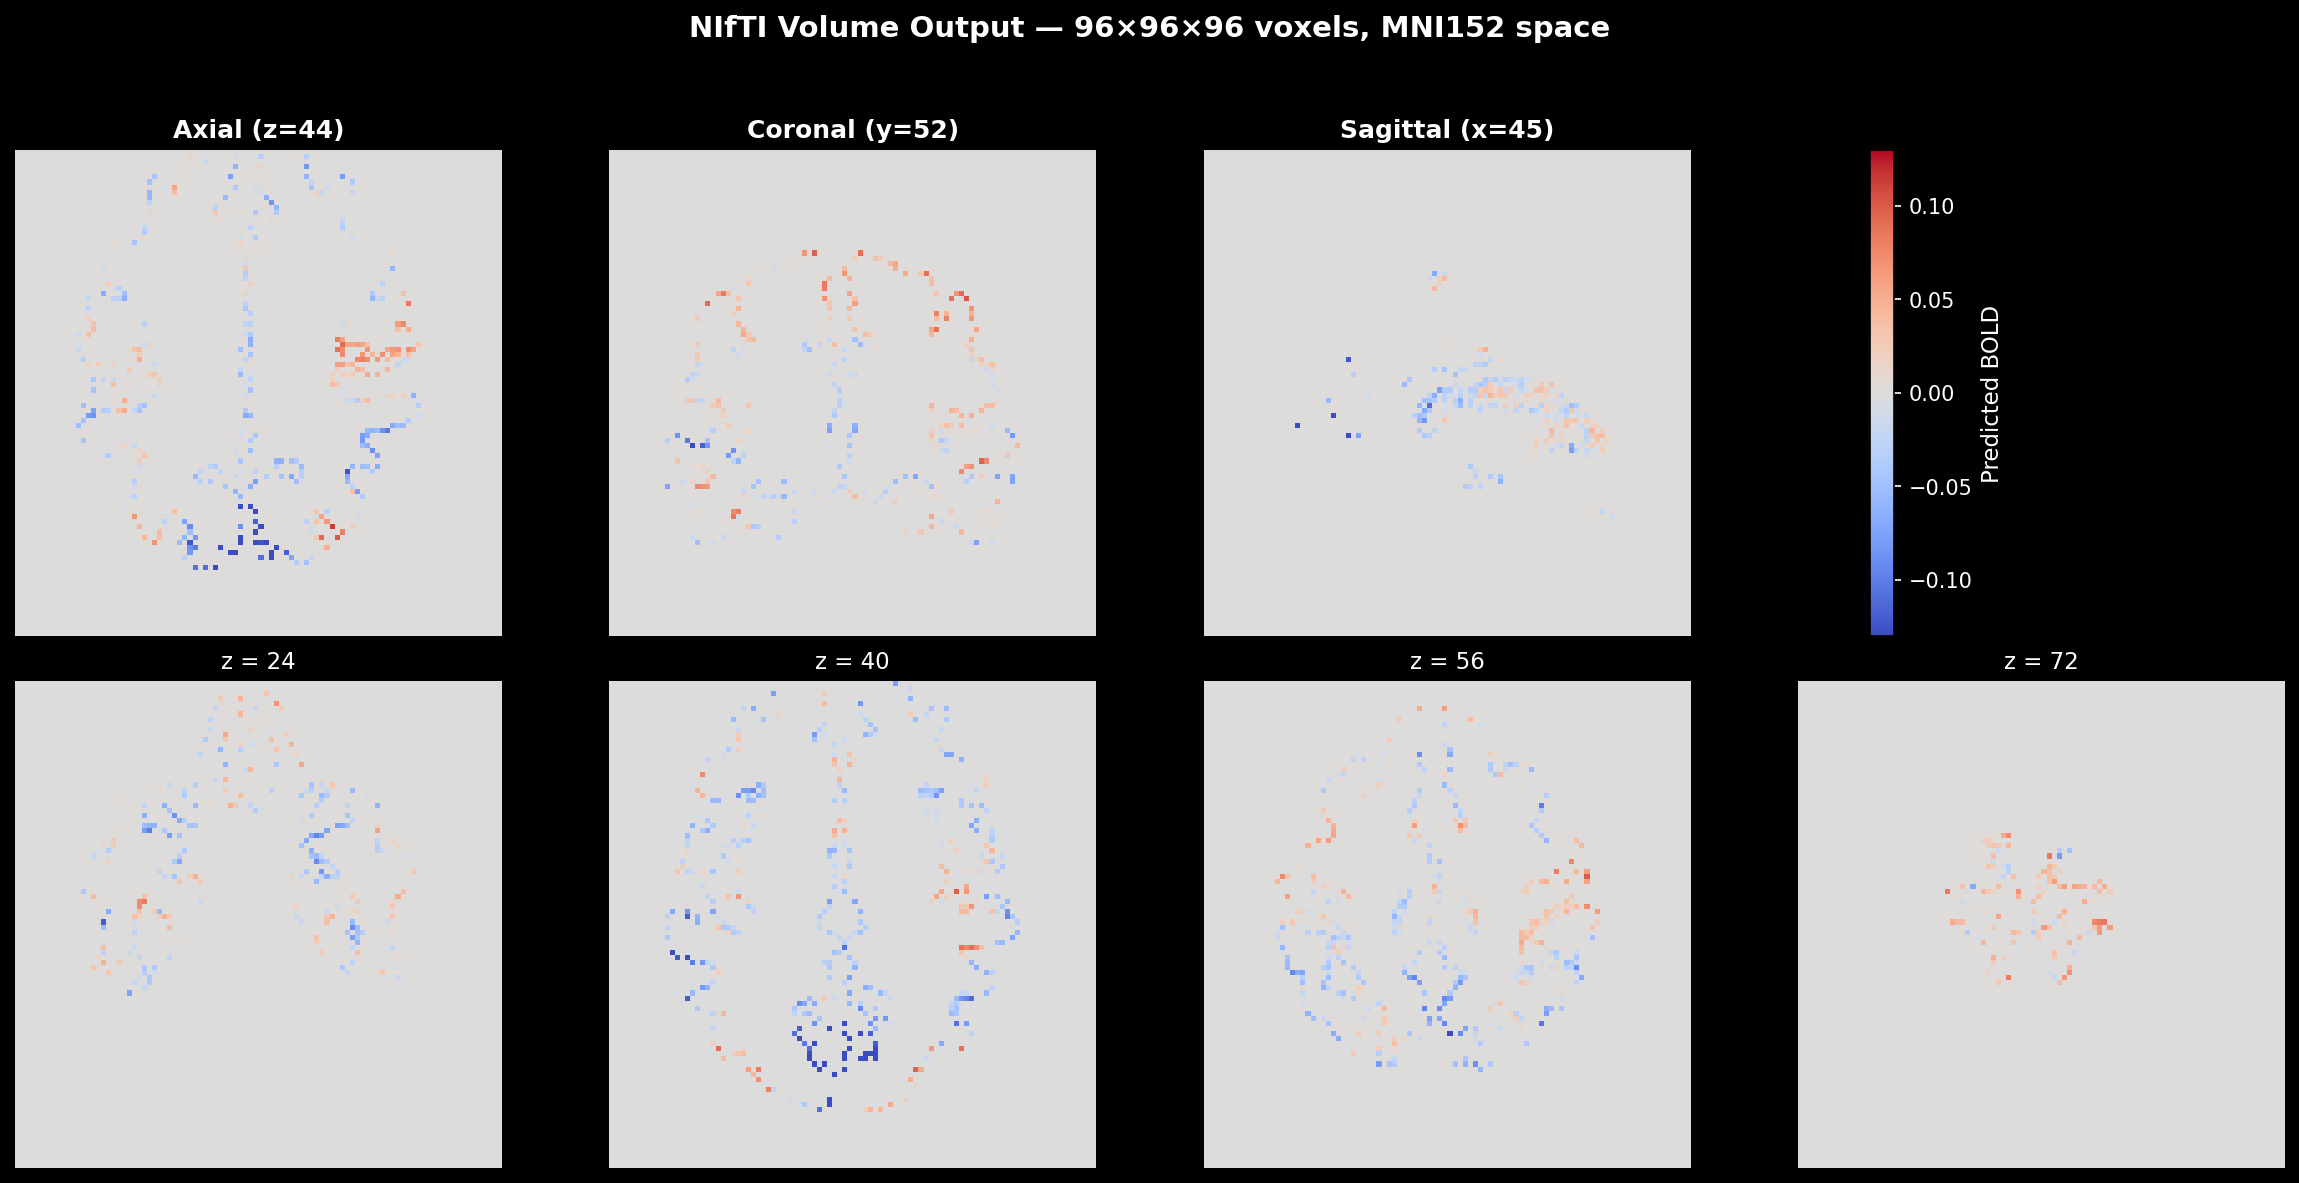
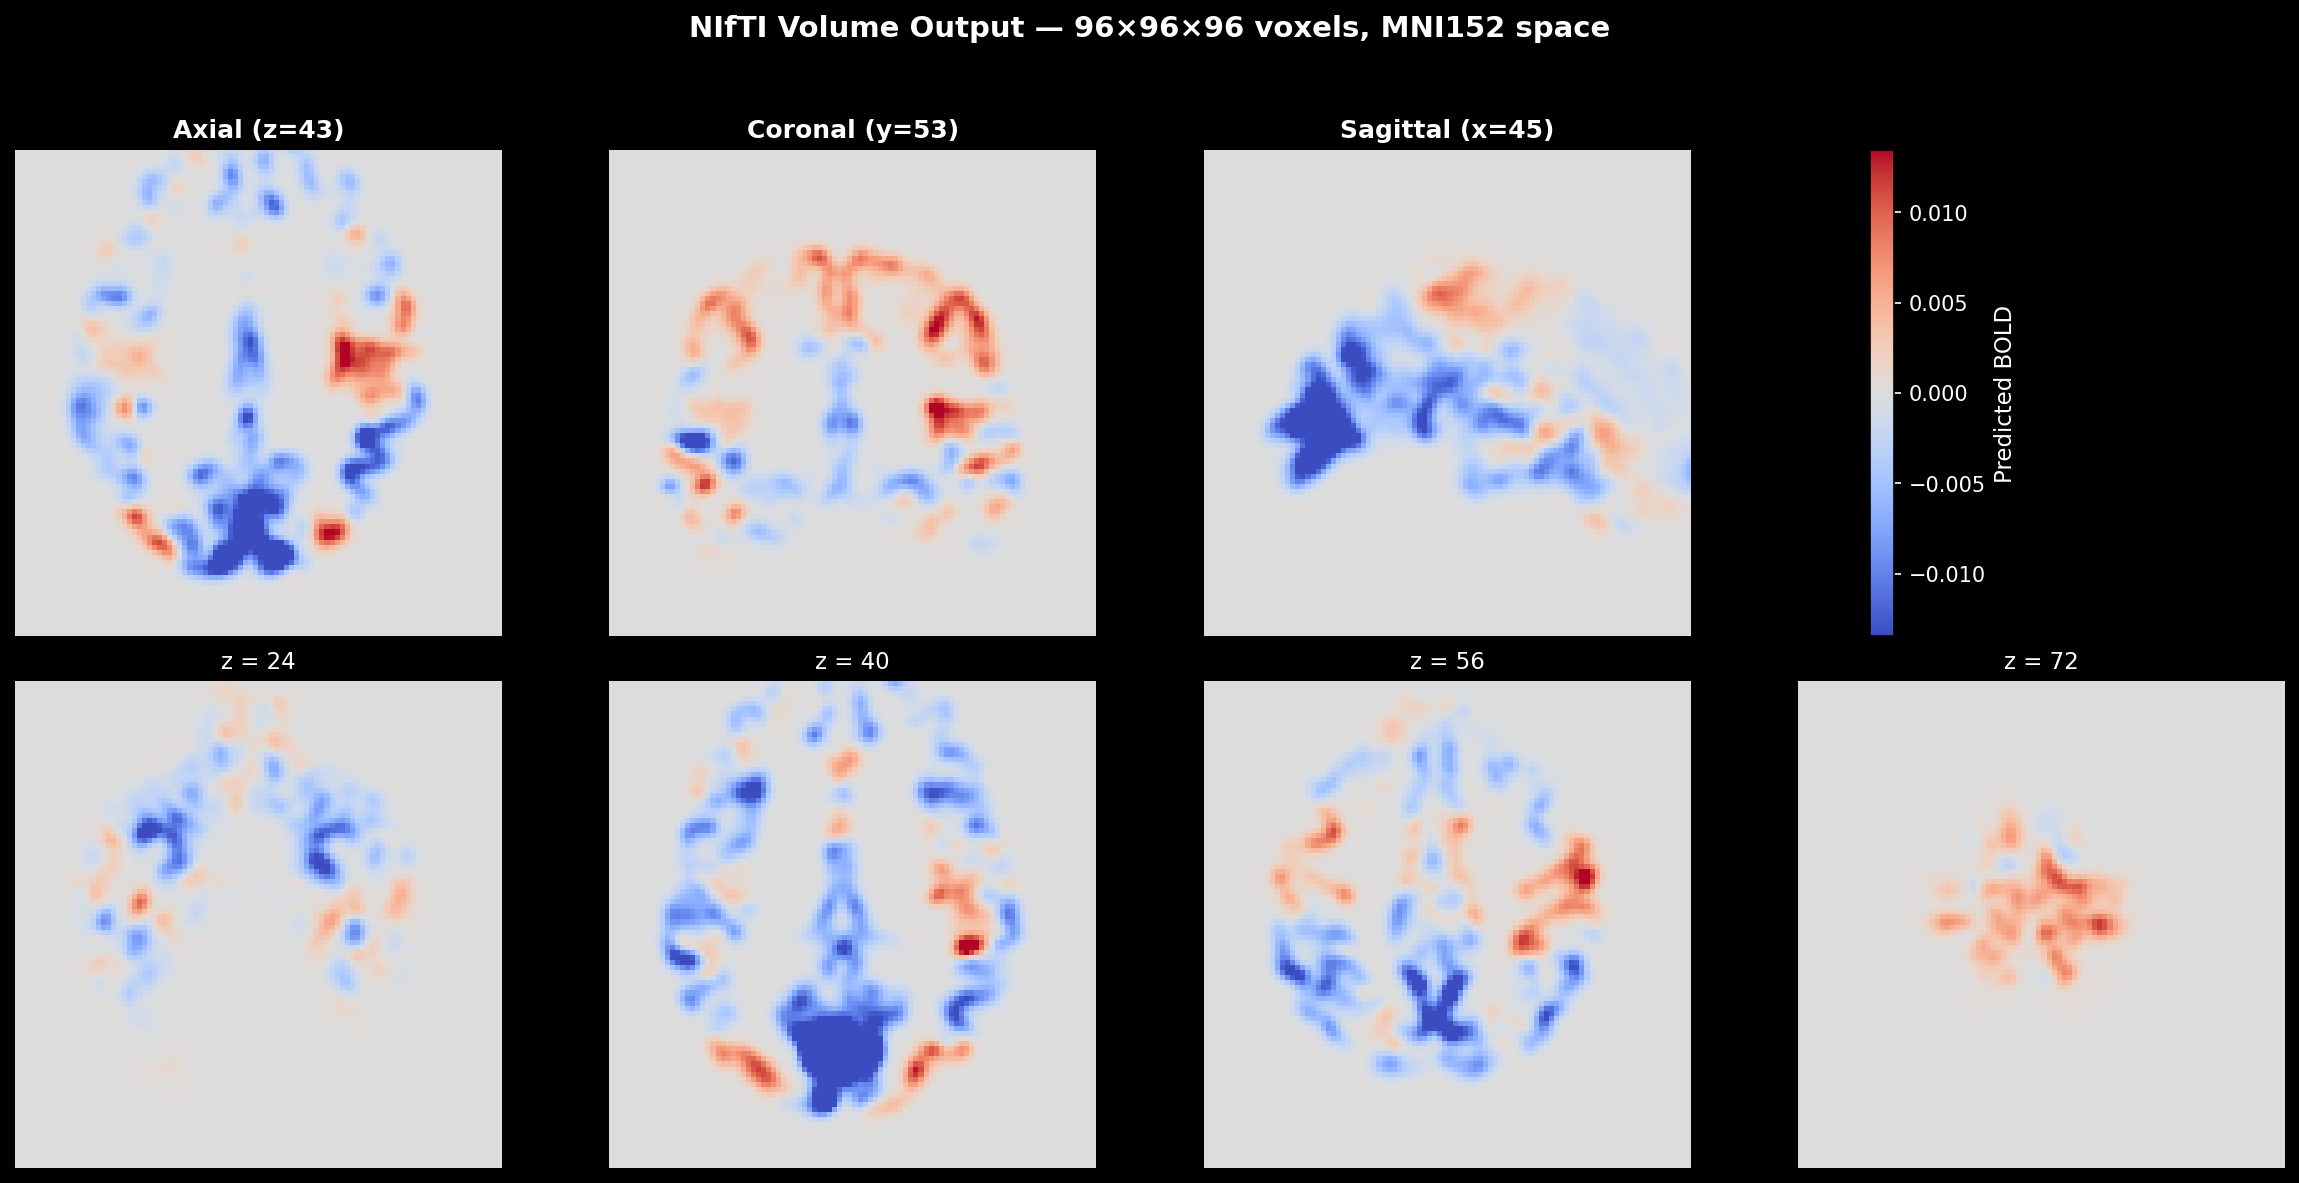
NIfTI: add Gaussian smoothing to fill cortical ribbon
surface_to_volume() now applies 3D separable Gaussian smoothing (default
FWHM=6mm) after scattering surface vertices to voxels. This fills the
cortical ribbon properly instead of producing sparse point projections.

- Added gaussian_smooth_3d_masked(): 3-pass separable convolution with
  distance mask (only fills voxels within 3σ of scattered vertices)
- Added smooth_fwhm_mm field to NiftiConfig (default: 6.0mm)
- Added --nifti-smooth CLI flag
- Regenerated NIfTI slice previews showing filled brain volume
- Added test_surface_to_volume_smoothed test

diff --git a/crates/tribev2/src/nifti.rs b/crates/tribev2/src/nifti.rs
@@ -29,6 +29,9 @@ pub struct NiftiConfig {
     pub origin_mm: (f32, f32, f32),
     /// Whether to gzip compress the output (.nii.gz vs .nii).
     pub compress: bool,
+    /// Gaussian smoothing FWHM in mm (0 = no smoothing). Default: 6.0.
+    /// Applied after surface-to-volume scatter to fill the cortical ribbon.
+    pub smooth_fwhm_mm: f32,
 }
 
 impl Default for NiftiConfig {
@@ -41,6 +44,7 @@ impl Default for NiftiConfig {
             // We offset so that MNI (0,0,0) is near the center.
             origin_mm: (90.0, 126.0, 72.0),
             compress: true,
+            smooth_fwhm_mm: 6.0,
         }
     }
 }
@@ -169,7 +173,13 @@ pub fn mni_to_voxel(
 /// `config`: volume configuration.
 ///
 /// Returns a flat f32 volume of size `nx * ny * nz` in row-major order.
-/// Multiple vertices mapping to the same voxel are averaged.
+///
+/// The projection works in two stages:
+/// 1. **Scatter**: each vertex is mapped to its nearest voxel (multiple vertices
+///    in the same voxel are averaged).
+/// 2. **Smooth + fill**: a 3D Gaussian kernel (FWHM from config) is applied to
+///    spread each scattered point into a filled cortical ribbon. A distance mask
+///    ensures only voxels within ~2× the smoothing radius of a vertex are filled.
 pub fn surface_to_volume(
     vertex_values: &[f32],
     vertex_coords: &[f32],
@@ -201,7 +211,146 @@ pub fn surface_to_volume(
         }
     }
 
+    // Apply Gaussian smoothing to fill the cortical ribbon
+    if config.smooth_fwhm_mm > 0.0 {
+        let sigma_voxels = config.smooth_fwhm_mm / (2.355 * config.voxel_size);
+        volume = gaussian_smooth_3d_masked(&volume, &counts, nx, ny, nz, sigma_voxels);
+    }
+
     volume
+}
+
+/// 3D Gaussian smoothing with cortical mask.
+///
+/// Only voxels near the original scattered vertices get filled.
+/// Uses separable convolution (3 × 1D passes) for efficiency.
+fn gaussian_smooth_3d_masked(
+    volume: &[f32],
+    scatter_counts: &[u32],
+    nx: usize, ny: usize, nz: usize,
+    sigma: f32,
+) -> Vec<f32> {
+    // Build a distance mask: for each voxel, the squared distance (in voxels)
+    // to the nearest scattered vertex. Only fill within radius = 3*sigma.
+    let radius = (3.0 * sigma).ceil() as isize;
+    let n_voxels = nx * ny * nz;
+
+    // Build mask of voxels within radius of any scattered vertex
+    let mut mask = vec![false; n_voxels];
+    for k in 0..nz {
+        for j in 0..ny {
+            for i in 0..nx {
+                let idx = i + j * nx + k * nx * ny;
+                if scatter_counts[idx] > 0 {
+                    // Mark neighborhood
+                    for dk in -radius..=radius {
+                        let kk = k as isize + dk;
+                        if kk < 0 || kk >= nz as isize { continue; }
+                        for dj in -radius..=radius {
+                            let jj = j as isize + dj;
+                            if jj < 0 || jj >= ny as isize { continue; }
+                            for di in -radius..=radius {
+                                let ii = i as isize + di;
+                                if ii < 0 || ii >= nx as isize { continue; }
+                                let dist_sq = (di * di + dj * dj + dk * dk) as f32;
+                                if dist_sq <= (radius * radius) as f32 {
+                                    let midx = ii as usize + jj as usize * nx + kk as usize * nx * ny;
+                                    mask[midx] = true;
+                                }
+                            }
+                        }
+                    }
+                }
+            }
+        }
+    }
+
+    // Build 1D Gaussian kernel
+    let ksize = (2 * radius + 1) as usize;
+    let mut kernel = vec![0.0f32; ksize];
+    let mut ksum = 0.0f32;
+    for i in 0..ksize {
+        let x = i as f32 - radius as f32;
+        let v = (-0.5 * (x / sigma) * (x / sigma)).exp();
+        kernel[i] = v;
+        ksum += v;
+    }
+    for v in &mut kernel { *v /= ksum; }
+
+    // Separable 3-pass Gaussian: X, Y, Z
+    let mut buf = volume.to_vec();
+    let mut tmp = vec![0.0f32; n_voxels];
+
+    // Pass 1: convolve along X
+    for k in 0..nz {
+        for j in 0..ny {
+            for i in 0..nx {
+                let mut sum = 0.0f32;
+                let mut wsum = 0.0f32;
+                for ki in 0..ksize {
+                    let ii = i as isize + ki as isize - radius;
+                    if ii >= 0 && ii < nx as isize {
+                        let src = ii as usize + j * nx + k * nx * ny;
+                        let w = kernel[ki];
+                        sum += buf[src] * w;
+                        wsum += w;
+                    }
+                }
+                tmp[i + j * nx + k * nx * ny] = if wsum > 0.0 { sum / wsum } else { 0.0 };
+            }
+        }
+    }
+    std::mem::swap(&mut buf, &mut tmp);
+
+    // Pass 2: convolve along Y
+    for k in 0..nz {
+        for j in 0..ny {
+            for i in 0..nx {
+                let mut sum = 0.0f32;
+                let mut wsum = 0.0f32;
+                for ki in 0..ksize {
+                    let jj = j as isize + ki as isize - radius;
+                    if jj >= 0 && jj < ny as isize {
+                        let src = i + jj as usize * nx + k * nx * ny;
+                        let w = kernel[ki];
+                        sum += buf[src] * w;
+                        wsum += w;
+                    }
+                }
+                tmp[i + j * nx + k * nx * ny] = if wsum > 0.0 { sum / wsum } else { 0.0 };
+            }
+        }
+    }
+    std::mem::swap(&mut buf, &mut tmp);
+
+    // Pass 3: convolve along Z
+    for k in 0..nz {
+        for j in 0..ny {
+            for i in 0..nx {
+                let mut sum = 0.0f32;
+                let mut wsum = 0.0f32;
+                for ki in 0..ksize {
+                    let kk = k as isize + ki as isize - radius;
+                    if kk >= 0 && kk < nz as isize {
+                        let src = i + j * nx + kk as usize * nx * ny;
+                        let w = kernel[ki];
+                        sum += buf[src] * w;
+                        wsum += w;
+                    }
+                }
+                tmp[i + j * nx + k * nx * ny] = if wsum > 0.0 { sum / wsum } else { 0.0 };
+            }
+        }
+    }
+
+    // Apply mask: zero out voxels far from any vertex
+    for i in 0..n_voxels {
+        if !mask[i] {
+            tmp[i] = 0.0;
+        }
+    }
+
+    tmp
 }
 
 /// Get combined vertex coordinates from a BrainMesh (left + right hemispheres).
@@ -394,6 +543,7 @@ mod tests {
             voxel_size: 1.0,
             origin_mm: (5.0, 5.0, 5.0),
             compress: false,
+            smooth_fwhm_mm: 0.0, // no smoothing for basic test
         };
         // Single vertex at MNI (0,0,0) → voxel (5,5,5)
         let coords = vec![0.0, 0.0, 0.0];
@@ -405,12 +555,37 @@ mod tests {
     }
 
     #[test]
+    fn test_surface_to_volume_smoothed() {
+        let config = NiftiConfig {
+            dims: (20, 20, 20),
+            voxel_size: 1.0,
+            origin_mm: (10.0, 10.0, 10.0),
+            compress: false,
+            smooth_fwhm_mm: 3.0,
+        };
+        // Single vertex at MNI (0,0,0) → voxel (10,10,10)
+        let coords = vec![0.0, 0.0, 0.0];
+        let values = vec![42.0];
+        let vol = surface_to_volume(&values, &coords, &config);
+        let idx_center = 10 + 10 * 20 + 10 * 20 * 20;
+        // Center voxel should have the strongest value
+        assert!(vol[idx_center] > 0.0, "center voxel should be > 0");
+        // Neighbor should also have nonzero value (smoothing spread)
+        let idx_neighbor = 11 + 10 * 20 + 10 * 20 * 20;
+        assert!(vol[idx_neighbor] > 0.0, "neighbor should be > 0 after smoothing");
+        // Far-away voxel should be zero (masked)
+        let idx_far = 0 + 0 * 20 + 0 * 20 * 20;
+        assert_eq!(vol[idx_far], 0.0, "far voxel should be 0");
+    }
+
+    #[test]
     fn test_write_nifti_roundtrip() {
         let config = NiftiConfig {
             dims: (4, 4, 4),
             voxel_size: 2.0,
             origin_mm: (4.0, 4.0, 4.0),
             compress: false,
+            smooth_fwhm_mm: 0.0,
         };
         let volume = vec![1.0f32; 64];
         let dir = tempfile::tempdir().unwrap();

diff --git a/crates/tribev2/src/bin/infer.rs b/crates/tribev2/src/bin/infer.rs
@@ -152,6 +152,10 @@ struct Args {
     #[arg(long, default_value = "2.0")]
     nifti_voxel_size: f32,
 
+    /// NIfTI Gaussian smoothing FWHM in mm (0=none). Default: 6.0
+    #[arg(long, default_value = "6.0")]
+    nifti_smooth: f32,
+
     /// Print top-k ROI summary (HCP-MMP1 parcellation)
     #[arg(long)]
     roi_summary: Option<usize>,
@@ -722,6 +726,7 @@ fn main() -> Result<()> {
             dims: (args.nifti_dim, args.nifti_dim, args.nifti_dim),
             voxel_size: args.nifti_voxel_size,
             compress: nifti_path.ends_with(".gz"),
+            smooth_fwhm_mm: args.nifti_smooth,
             ..Default::default()
         };
 
